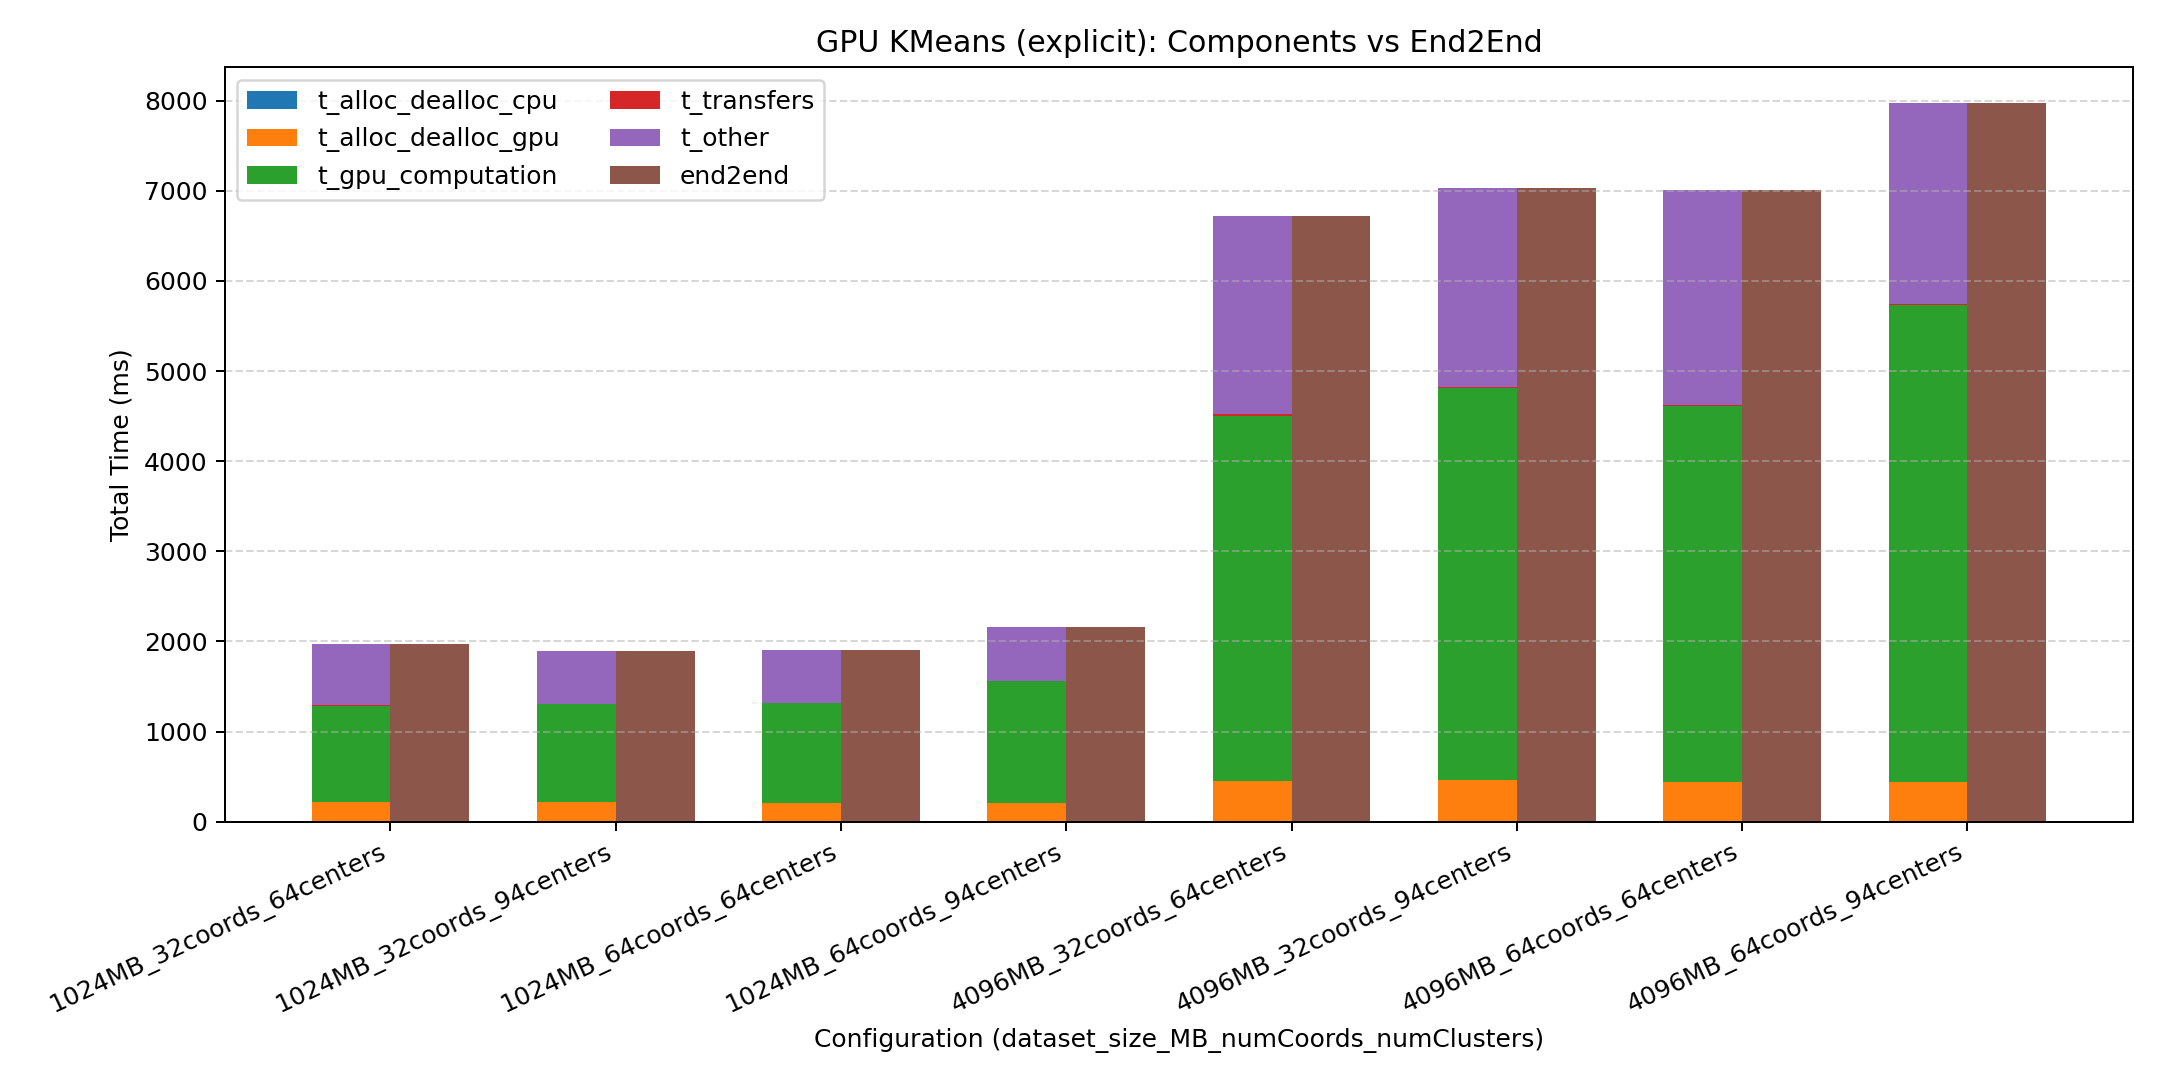
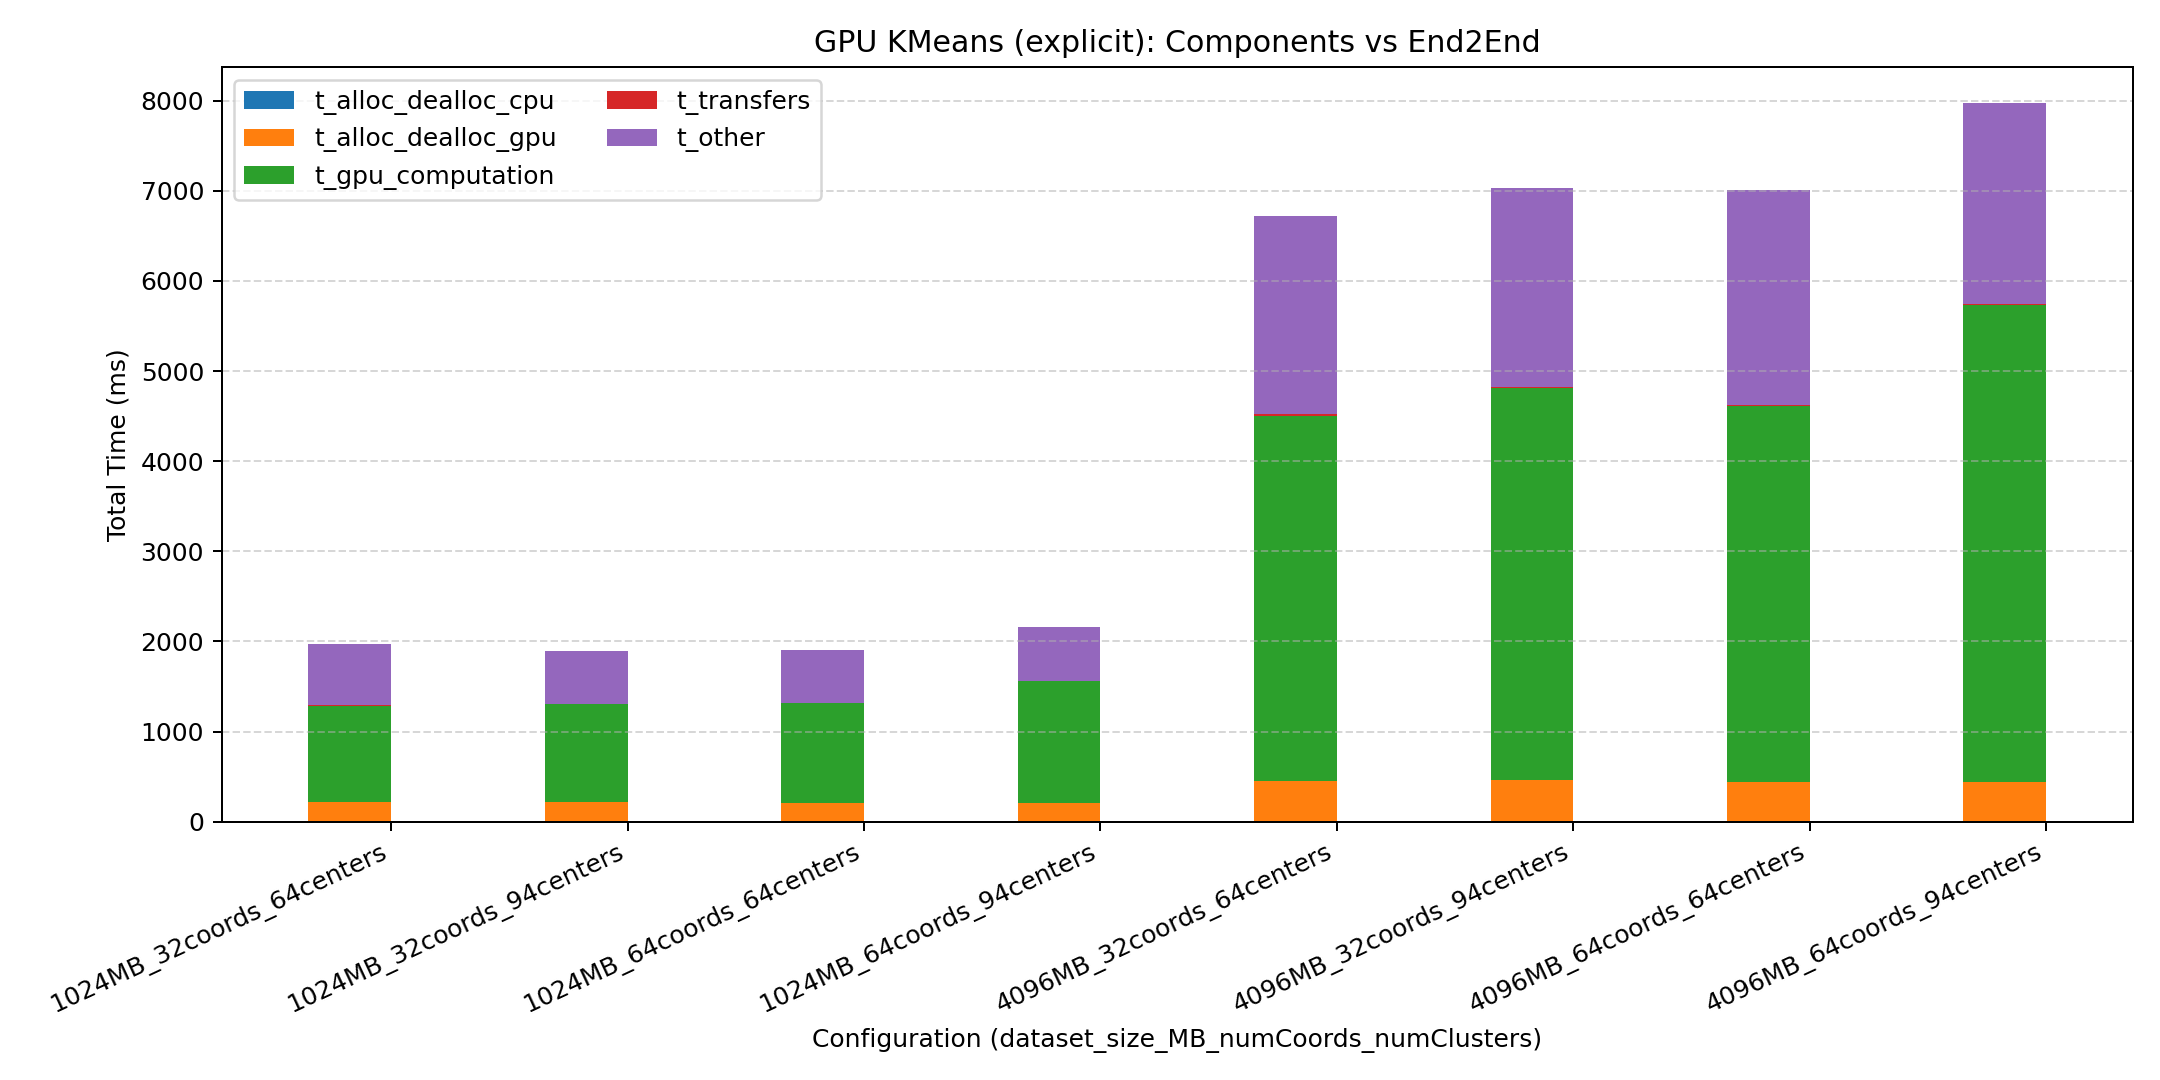
remove total e2e bar, new configurations, static block size = 128, new metrics adapted

diff --git a/kmeans/plot_new.py b/kmeans/plot_new.py
@@ -129,7 +129,7 @@ def plot_stacked_vs_end2end(df: pd.DataFrame, out_path: str, prefix: str):
         ax.bar([i - offset for i in x], df[col], width, bottom=bottoms, label=col)
         bottoms = [b + v for b, v in zip(bottoms, df[col])]
 
-    ax.bar([i + offset for i in x], df["end2end_ms"], width, label="end2end")
+    #ax.bar([i + offset for i in x], df["end2end_ms"], width, label="end2end")
 
     ax.set_xticks(list(x))
     ax.set_xticklabels(labels, rotation=25, ha="right")
